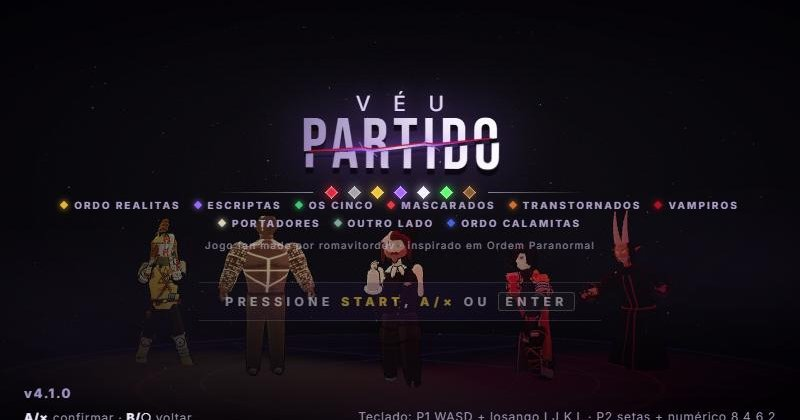
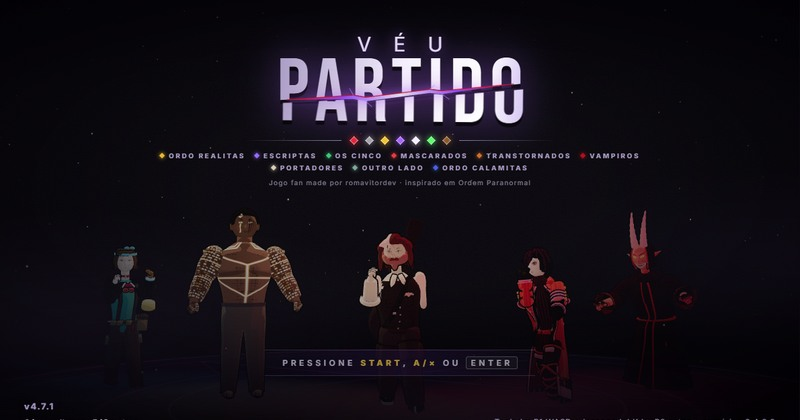
Release v4.7.1: fix Dara's element and update About page

diff --git a/src/sobre.css b/src/sobre.css
@@ -211,3 +211,147 @@ tbody tr:last-child th, tbody tr:last-child td { border-bottom: 0; }
 .foot { border-top: 1px solid var(--line); padding: var(--s4) 0; font-size: 14px; color: var(--graphite); }
 .foot p { margin: 0 0 var(--s1); max-width: 80ch; }
 .foot a { color: var(--ash); }
+
+/* ---------------- leitura e navegação no celular ---------------- */
+@media (max-width: 767px) {
+  html { scroll-padding-top: 112px; }
+
+  .top-in {
+    min-height: 0;
+    flex-wrap: wrap;
+    gap: 0 8px;
+    padding-top: 4px;
+  }
+  .mark { font-size: 22px; }
+  .top-in > .pill { margin-left: auto; }
+  .top nav {
+    display: flex;
+    order: 3;
+    flex: 0 0 calc(100% + var(--pad) * 2);
+    gap: 2px;
+    margin: 0 calc(var(--pad) * -1);
+    padding: 4px var(--pad) 8px;
+    border-top: 1px solid var(--line);
+    overflow-x: auto;
+    overscroll-behavior-x: contain;
+    scrollbar-width: none;
+  }
+  .top nav::-webkit-scrollbar { display: none; }
+  .top nav a { min-height: 44px; padding: 0 12px; font-size: 13px; }
+
+  .hero {
+    gap: 20px;
+    padding-top: 20px;
+    padding-bottom: 40px;
+  }
+  .hero-shot {
+    order: -1;
+    width: calc(100% + var(--pad) * 2);
+    margin: 0 calc(var(--pad) * -1);
+    overflow: hidden;
+    background: radial-gradient(ellipse at 50% 70%, #25153a, var(--void) 72%);
+    border-block: 1px solid var(--line);
+  }
+  .hero-shot img {
+    width: 100%;
+    aspect-ratio: 16 / 9;
+    object-fit: cover;
+    border: 0;
+    border-radius: 0;
+  }
+  .hero-copy { order: 1; }
+  .eyebrow { margin-bottom: 12px; font-size: 11px; }
+  h1 { font-size: clamp(72px, 18vw, 104px); line-height: .82; }
+  .lead { margin-top: 16px; font-size: 17px; line-height: 1.5; }
+  .cta { flex-direction: column; gap: 10px; margin-top: 22px; }
+  .cta .pill { width: 100%; min-height: 52px; }
+  .meta { margin-top: 12px; }
+  .in-app { font-size: 14px; }
+
+  .block { padding-top: 48px; padding-bottom: 48px; }
+  h2 { font-size: clamp(42px, 11vw, 56px); }
+  .sub { margin-bottom: 24px; }
+  .note { font-size: 13px; }
+
+  .cards { grid-template-columns: minmax(0, 1fr); gap: 12px; }
+  .card, .lore-card { min-width: 0; padding: 20px; border-radius: 12px; }
+  .card { gap: 12px; }
+  .facts li, .steps li { font-size: 14px; }
+  details p { font-size: 14px; }
+
+  .feature { gap: 14px; margin-top: 32px; }
+  .feature:first-of-type { margin-top: 24px; }
+  .feature img { aspect-ratio: 16 / 10; object-fit: cover; border-radius: 12px; }
+  .feature h3 { font-size: 28px; }
+  .feature p { font-size: 15px; }
+  .lore { gap: 12px; }
+  .lore-card { gap: 8px; }
+  .lore-card h3 { font-size: 28px; }
+  .cycle-wrap { gap: 24px; }
+
+  .elements {
+    grid-template-columns: repeat(2, minmax(0, 1fr));
+    gap: 10px;
+    margin-top: 24px;
+  }
+  .element { min-width: 0; padding: 14px 12px; gap: 8px; border-radius: 10px; }
+  .element h3 { font-size: 22px; }
+  .element p { font-size: 13px; }
+  .element .el-rel, .element .el-who { font-size: 12px; }
+  .element .el-who { overflow-wrap: anywhere; }
+  .modes { margin-top: 16px; }
+  .modes li { grid-template-columns: 38px 1fr; padding: 14px 0; }
+  .modes li::before { font-size: 25px; }
+  .modes b { font-size: 16px; }
+  .modes span { font-size: 14px; }
+  .soon { margin-top: 24px; padding: 20px; border-radius: 12px; }
+  .soon h3 { font-size: 30px; }
+
+  .filters { gap: 8px; margin-bottom: 16px; }
+  .chips {
+    flex-wrap: nowrap;
+    overflow-x: auto;
+    overscroll-behavior-x: contain;
+    scrollbar-width: none;
+    padding: 2px 0 6px;
+  }
+  .chips::-webkit-scrollbar { display: none; }
+  .chips::before {
+    flex: 0 0 auto;
+    align-self: center;
+    margin-right: 4px;
+    color: var(--graphite);
+    font: 800 10px/1 var(--body);
+    letter-spacing: .12em;
+  }
+  #f-origin::before { content: 'ORIGEM'; }
+  #f-element::before { content: 'ELEMENTO'; }
+  .chip { min-height: 44px; padding-inline: 14px; }
+  .roster { gap: 10px; }
+  .fcard { grid-template-columns: 88px minmax(0, 1fr); border-radius: 10px; }
+  .fpic { border-right: 1px solid var(--line); }
+  .fpic img { aspect-ratio: 3 / 4; object-fit: cover; object-position: 50% 12%; }
+  .fbody { padding: 10px; }
+  .fk { font-size: 10px; letter-spacing: .08em; }
+  .fcard h3 { font-size: 22px; line-height: 1; }
+  .ftag { margin-bottom: 8px; font-size: 13px; }
+  .fcard dl { gap: 5px; font-size: 12px; }
+  .fcard dl div { grid-template-columns: 62px minmax(0, 1fr); gap: 6px; }
+  .fcard dd { overflow-wrap: anywhere; }
+
+  .table-wrap { margin-top: 16px; border-radius: 10px; }
+  table { min-width: 680px; }
+  th, td { padding: 10px 12px; }
+  .faq { margin-top: 20px; }
+  .faq summary { font-size: 16px; line-height: 1.4; padding: 8px 0; }
+  .faq p { font-size: 14px; }
+  .foot { padding: 32px 0 max(32px, env(safe-area-inset-bottom)); }
+}
+
+@media (max-width: 359px) {
+  .fcard { grid-template-columns: 76px minmax(0, 1fr); }
+  .fbody { padding: 8px; }
+  .fcard dl div { grid-template-columns: 56px minmax(0, 1fr); gap: 4px; }
+  .element { padding-inline: 10px; }
+  .element h3 { font-size: 20px; }
+}

diff --git a/sobre.html b/sobre.html
@@ -89,8 +89,8 @@
       <div class="hero-copy">
         <p class="eyebrow">Jogo de luta 3D · fan made</p>
         <h1 id="titulo">Véu<br />Partido</h1>
-        <p class="lead">Agentes da Ordo Realitas, cultistas, Mascarados e criaturas do Outro Lado se enfrentam em arenas 3D —
-          combos rápidos, rituais por combinação de botões, transformações e especiais cinematográficos.</p>
+        <p class="lead">Personagens e criaturas de Ordem Paranormal se enfrentam em arenas 3D. Escolha um lutador e domine
+          combos, rituais, transformações e especiais cinematográficos.</p>
         <div class="cta">
           <a class="pill primary" id="cta-main" href="https://github.com/romavitordev/veu-partido/releases/latest/download/Arena-Paranormal-Windows.exe">
             <span id="cta-label">Baixar para Windows</span>
@@ -101,7 +101,7 @@
         <p class="in-app hidden" id="no-app" role="status">Você já está jogando pelo aplicativo. Para atualizar, baixe a versão nova aqui embaixo.</p>
       </div>
       <figure class="hero-shot">
-        <img src="%BASE_URL%sobre/titulo.webp" srcset="%BASE_URL%sobre/titulo-480.webp 480w, %BASE_URL%sobre/titulo.webp 800w" sizes="(min-width: 1024px) 530px, 100vw" width="800" height="450" alt="Tela de título do Véu Partido: cinco lutadores em pose sob o logo" fetchpriority="high" />
+        <img src="%BASE_URL%sobre/titulo.webp" srcset="%BASE_URL%sobre/titulo-480.webp 480w, %BASE_URL%sobre/titulo.webp 800w" sizes="(min-width: 1024px) 530px, 100vw" width="800" height="450" alt="Tela atual de título do Véu Partido, com Dara, Kian, Arthur, Jae e O Diabo sob o logo" fetchpriority="high" />
       </figure>
     </section>
 
@@ -295,8 +295,8 @@
             <li>Golpes físicos e o ataque principal ficam fora do ciclo, a não ser com uma <b>arma amaldiçoada</b>. O Xande
               amaldiçoa a arma com o elemento que supera o adversário: Sangue faz sangrar, Morte apodrece e deixa lento,
               Conhecimento drena a sanidade e Energia solta choques.</li>
-            <li>A <b>Transmissão</b> (O Estrangeiro) e a <b>Tinta</b> (Amigo Imaginário) vêm dos Sinos de Tenebris, que unem
-              elementos opostos. No jogo elas ficam fora do ciclo e são neutras contra todos.</li>
+            <li>A <b>Transmissão</b> (Dara, O Estrangeiro e os Alheios) e a <b>Tinta</b> (Amigo Imaginário) vêm dos Sinos de
+              Tenebris, que unem elementos opostos. No jogo elas ficam fora do ciclo e são neutras contra todos.</li>
             <li>O elemento de cada lutador aparece ao lado do nome na luta e no elenco aqui embaixo.</li>
           </ul>
         </div>
@@ -335,6 +335,18 @@
           <p>A entidade do próprio Outro Lado, de onde vem todo o paranormal. O mais misterioso: o impossível, o infinito e o
             desconhecido.</p>
           <p class="el-rel">Neutro: não supera nem é superado</p>
+          <p class="el-who"></p>
+        </article>
+        <article class="element" style="--c: #5aff6a" data-el="transmissao">
+          <h3>Transmissão</h3>
+          <p>Elemento dos Sinos de Tenebris, que unem elementos opostos.</p>
+          <p class="el-rel">Fora do ciclo · neutra contra todos</p>
+          <p class="el-who"></p>
+        </article>
+        <article class="element" style="--c: #8a5a2a" data-el="tinta">
+          <h3>Tinta</h3>
+          <p>Elemento dos Sinos de Tenebris, que unem elementos opostos.</p>
+          <p class="el-rel">Fora do ciclo · neutra contra todos</p>
           <p class="el-who"></p>
         </article>
       </div>

diff --git a/src/ui/titleStage.js b/src/ui/titleStage.js
@@ -8,7 +8,7 @@ import { gfxProfile } from '../config/settings.js';
 // aproximando devagar. Os modelos só são montados depois que os .glb carregam (ready()).
 // um lutador de cada equipe (pedido do usuário): Os Cinco, Escriptas, Ordo Realitas no centro, Mascarados e Portadores
 const LINEUP = [
-  { id: 'xande', x: -3.3, z: -1.6, yaw: 0.55 }, // Os Cinco
+  { id: 'dara', x: -3.3, z: -1.6, yaw: 0.55 }, // Os Cinco
   { id: 'kian', x: -1.7, z: -0.6, yaw: 0.3 }, // Escriptas
   { id: 'arthur', x: 0, z: 0, yaw: 0 }, // Ordo Realitas
   { id: 'jae', x: 1.7, z: -0.6, yaw: -0.3 }, // Mascarados
@@ -27,7 +27,7 @@ export class TitleStage {
     this.built = false;
     // luz baixa de frente (silhuetas) + luz de ambiente roxa
     this.scene.add(new THREE.HemisphereLight(0x3a2a5a, 0x050308, 0.55));
-    const front = new THREE.DirectionalLight(0xb8a8ff, 0.6);
+    const front = new THREE.DirectionalLight(0xb8a8ff, 0.9);
     front.position.set(0, 2, 8);
     this.scene.add(front);
     // chão escuro + círculo ritual que brilha

diff --git a/src/characters/dara.js b/src/characters/dara.js
@@ -5,7 +5,7 @@
 // Do cânone (RPG): Paramédico (cura um aliado), Eclético e Perito (testes de perícia), Dedicação (+PE).
 // PROPOSTA de jogo (marcada): ela luta nos punhos (não tem arma no cânone), a lanterna UV cega, a bolsa vira o especial e
 // a Transformação "Ninguém Fica Pra Trás" (o luto dos Cinco pelo Voytek) — nada disso é cena da série.
-// Elemento: Medo (neutro), como o Veríssimo — ela não tem afinidade.
+// Elemento: Transmissão (a classificação anterior como Medo neutro estava errada).
 import kian from './kian.js';
 
 const CYAN = 0x2ab8c8;
@@ -21,7 +21,7 @@ export default {
   model: 'dara',
   color: '#2ab8c8',
   origin: 'Os Cinco',
-  element: 'medo',
+  element: 'transmissao',
   energyColor: CYAN,
   info: {
     weapon: 'Os punhos, a lanterna UV e a bolsa enorme de primeiros socorros',

diff --git a/src/config/version.js b/src/config/version.js
@@ -1,6 +1,6 @@
 // Versão semântica do jogo e NOVIDADES (changelog).
 // Para uma nova atualização: atualize VERSION e acrescente a entrada no TOPO de CHANGELOG.
-export const VERSION = '4.7.0';
+export const VERSION = '4.7.1';
 export const VERSION_LABEL = `v${VERSION}`;
 
 export function formatVersion(version) {
@@ -11,6 +11,15 @@ export function formatVersion(version) {
 }
 
 export const CHANGELOG = [
+  {
+    v: '4.7.1',
+    date: '2026-11-01',
+    title: 'Transmissão nos Cinco',
+    items: [
+      'DARA É DE TRANSMISSÃO: o elemento correto agora aparece na luta, nos filtros e no elenco da página Sobre.',
+      'Página Sobre: novos retratos de Dara, Chico, Morato e Carniçal, gerados com os modelos atuais do jogo.',
+    ],
+  },
   {
     v: '4.7.0',
     date: '2026-11-01',

diff --git a/src/config/elements.js b/src/config/elements.js
@@ -7,7 +7,7 @@ export const ELEMENTS = {
   energia: { name: 'Energia', color: '#a865ff' },
   medo: { name: 'Medo', color: '#f4f1ff' },
   // elementos dos Sinos de Tenebris (fora do ciclo: neutros contra os outros)
-  transmissao: { name: 'Transmissão', color: '#5aff6a' }, // o Estrangeiro e os Alheios (Sinais do Outro Lado)
+  transmissao: { name: 'Transmissão', color: '#5aff6a' }, // Dara, o Estrangeiro e os Alheios (Sinais do Outro Lado)
   tinta: { name: 'Tinta', color: '#8a5a2a' }, // o Amigo Imaginário (O Segredo na Ilha)
 };
 

diff --git a/docs/QUALIDADE-SOBRE.md b/docs/QUALIDADE-SOBRE.md
@@ -1,10 +1,10 @@
 # Padrão de qualidade — página SOBRE / BAIXAR (`sobre.html`)
 
-Status do checklist do padrão de qualidade de sites (Roma & Buganza) para esta página, em 2026-10-16 (v3.27.1).
+Status do checklist do padrão de qualidade de sites (Roma & Buganza) para esta página, reavaliado em 2026-11-01 (v4.7.1).
 `[x]` feito · `[~]` parcial · `[ ]` pendente · **N/A** não se aplica (com o motivo).
 
-Medido com Lighthouse 12 (modo celular, Edge headless) no build de produção: **Performance 99 · Acessibilidade 100 ·
-Boas práticas 100 · SEO 100** — LCP 1,7 s · CLS 0,059 · TBT 0 ms · FCP 0,9 s.
+As notas de Lighthouse abaixo de v3.27.1 são uma medição histórica e não representam esta versão. Reexecutar Lighthouse
+depois da atualização visual, especialmente Performance e Acessibilidade.
 
 ## 1. Design e referências
 - [x] Direção visual a partir de referências — ThoughtLab (Refero Styles), ver [DESIGN-SOBRE.md](DESIGN-SOBRE.md) e o README.
@@ -17,10 +17,11 @@ Boas práticas 100 · SEO 100** — LCP 1,7 s · CLS 0,059 · TBT 0 ms · FCP 0,
 - N/A Modelos 3D na página — usamos capturas reais do jogo (WebP), não o modelo.
 
 ## 2. Frontend
-- [x] Mobile first; conferido em 360, 768, 1280 e 1920 px, sem rolagem horizontal (a tabela de controles rola dentro dela).
-- [x] Áreas de toque ≥ 44 px (botões, links do menu, perguntas, "como instalar").
+- [x] Mobile first: hero com captura em largura total, ações empilhadas, navegação horizontal e conteúdo em uma coluna.
+- [x] Sem rolagem horizontal em viewports emulados de 320, 360 e 390 px; a tabela e as faixas de filtros têm rolagem local.
+- [x] Áreas de toque ≥ 44 px nos botões, navegação, filtros, perguntas e passos de instalação.
 - N/A Tema claro/escuro — a marca do jogo é escura (decisão registrada no DESIGN-SOBRE.md).
-- [x] CTA principal acima da dobra (no celular de 360 px termina em 541 de 780 px) e escolhido pelo aparelho de quem vê.
+- [x] CTAs e versão aparecem acima da dobra em viewports emulados de 320, 360 e 390 × 844 px; confirmar em aparelhos reais.
 - N/A WhatsApp, formulário e prova social de negócio — é um jogo grátis de fã, sem contato comercial. As "provas" são as
   telas reais do jogo ao lado de cada afirmação.
 - [x] Imagens WebP com `width`/`height`, `srcset` (480 px no celular), `loading="lazy"` abaixo da dobra e
@@ -48,13 +49,14 @@ Boas práticas 100 · SEO 100** — LCP 1,7 s · CLS 0,059 · TBT 0 ms · FCP 0,
 ## 5. Entrega
 - [x] README com a página e as referências visuais usadas.
 - [x] Textos e telas reais, sem placeholder (tamanhos dos downloads tirados da release v3.26.1).
-- [~] Testado em Chrome/Edge (preview e Lighthouse); falta conferir no Safari do iPhone e no Samsung Internet.
+- [~] Revisão visual local em desktop e celular (320, 360, 390, 768 e 1280 px); faltam Lighthouse atual e testes em aparelhos reais.
 - [x] Favicon e imagem de compartilhamento (`public/sobre/og.jpg`).
 - [x] Página 404 personalizada (`public/404.html`).
 - N/A Treinamento de painel — não há painel.
 
 ## Pendente
 - Search Console (conta do dono).
+- Lighthouse desta versão, especialmente Performance e Acessibilidade.
 - Teste em Safari (iOS) e Samsung Internet, em aparelho real.
 - Opcional: hospedar as fontes localmente para não depender do Google Fonts.
 - Opcional: traduzir a página (o jogo tem 13 idiomas; a página está só em pt-BR).

diff --git a/docs/DESIGN-SOBRE.md b/docs/DESIGN-SOBRE.md
@@ -16,9 +16,11 @@ Arena Paranormal e baixa a versão do aparelho dele — ou joga no navegador.
 - Fontes do próprio jogo: **Bebas Neue** (display, caixa alta) + **Inter** (leitura). A referência usa uma fonte só;
   aqui são duas para manter a identidade do jogo (o limite do padrão é 2 famílias).
 - O carmesim é o vermelho do jogo, escurecido para o texto branco passar no AA (≥ 4,5:1).
-- As cores dos ELEMENTOS (Sangue, Morte, Conhecimento, Energia, Medo) aparecem só como marcadores do elenco — são
+- As cores dos ELEMENTOS (Sangue, Morte, Conhecimento, Energia, Medo, Transmissão e Tinta) aparecem só como marcadores do elenco — são
   informação, não decoração.
 - Fotos reais do jogo ao lado de cada afirmação (luta, transformação, invocação, seleção), capturadas no próprio jogo.
+- No celular, a captura atual do jogo abre o hero em largura total; o título, a descrição curta e as ações vêm logo depois.
+  Navegação por seções em faixa horizontal, filtros deslizáveis e cartões de personagem compactos preservam os alvos de toque.
 
 ## Typography
 Display: Bebas Neue 400, `clamp(64px, 14vw, 176px)` no hero, line-height 0.9, letter-spacing .02em; títulos de seção

diff --git a/CHANGELOG-ADMIN.md b/CHANGELOG-ADMIN.md
@@ -1,5 +1,12 @@
 # Registro administrativo de alterações
 
+## v4.7.1 — Transmissão nos Cinco
+
+- Versão: `VERSION` 4.7.0 → **4.7.1** (`package.json`/lock junto). Data: 2026-11-01.
+- **Correção de elemento:** Dara passa de Medo para Transmissão conforme a correção canônica do dono. Conferidos os demais personagens com origem Os Cinco: nenhum outro usa Transmissão como elemento-base; a forma ET do Guizo é de Conhecimento.
+- **Página Sobre:** `sobre.html` identifica Dara junto de O Estrangeiro e dos Alheios na Transmissão; o elenco e seus filtros seguem o elemento dos dados do jogo.
+- **Retratos:** geradas no jogo e convertidas para WebP as imagens de Dara, Chico, Morato e Carniçal em `public/sobre/elenco/`.
+
 ## v4.7.0 — Os Cinco Completos
 
 - Versão: `VERSION` 4.6.0 → **4.7.0** (package.json/lock junto). Data: 2026-11-01.

diff --git a/CHANGELOG-CLIENTE.md b/CHANGELOG-CLIENTE.md
@@ -2,6 +2,10 @@
 
 Este arquivo reúne as mesmas novidades exibidas no menu do jogo.
 
+## v4.7.1 — Transmissão nos Cinco
+- Elemento da Dara corrigido para Transmissão; agora aparece assim na luta, nos filtros e no elenco da página Sobre.
+- Página Sobre com retratos novos de Dara, Chico, Morato e Carniçal.
+
 ## v4.7.0 — Os Cinco Completos
 - Novos lutadores: Chico, o técnico (farol da van, scanner de Energia, remendo na fita) e Morato, o líder (metralhadora, "Tamo com Ele" e a Larva da Fúria).
 - Carniçal refeito: anatomia de verdade coberta de Lodo, crânio com o cérebro à mostra e a mandíbula de Lodo.

diff --git a/CHANGELOG.md b/CHANGELOG.md
@@ -1,5 +1,14 @@
 # Changelog
 
+## v4.7.1 — Transmissão nos Cinco
+
+### Alterado
+- Dara: elemento corrigido de Medo para Transmissão; o elenco, as cores e os filtros usam o elemento registrado no roster.
+- `sobre.html`: Transmissão passa a listar Dara, além de O Estrangeiro e os Alheios.
+
+### Atualizado
+- Página Sobre: novos retratos em WebP para Dara, Chico, Morato e Carniçal, renderizados com os modelos atuais do jogo.
+
 ## v4.7.0 — Os Cinco Completos
 
 ### Adicionado
